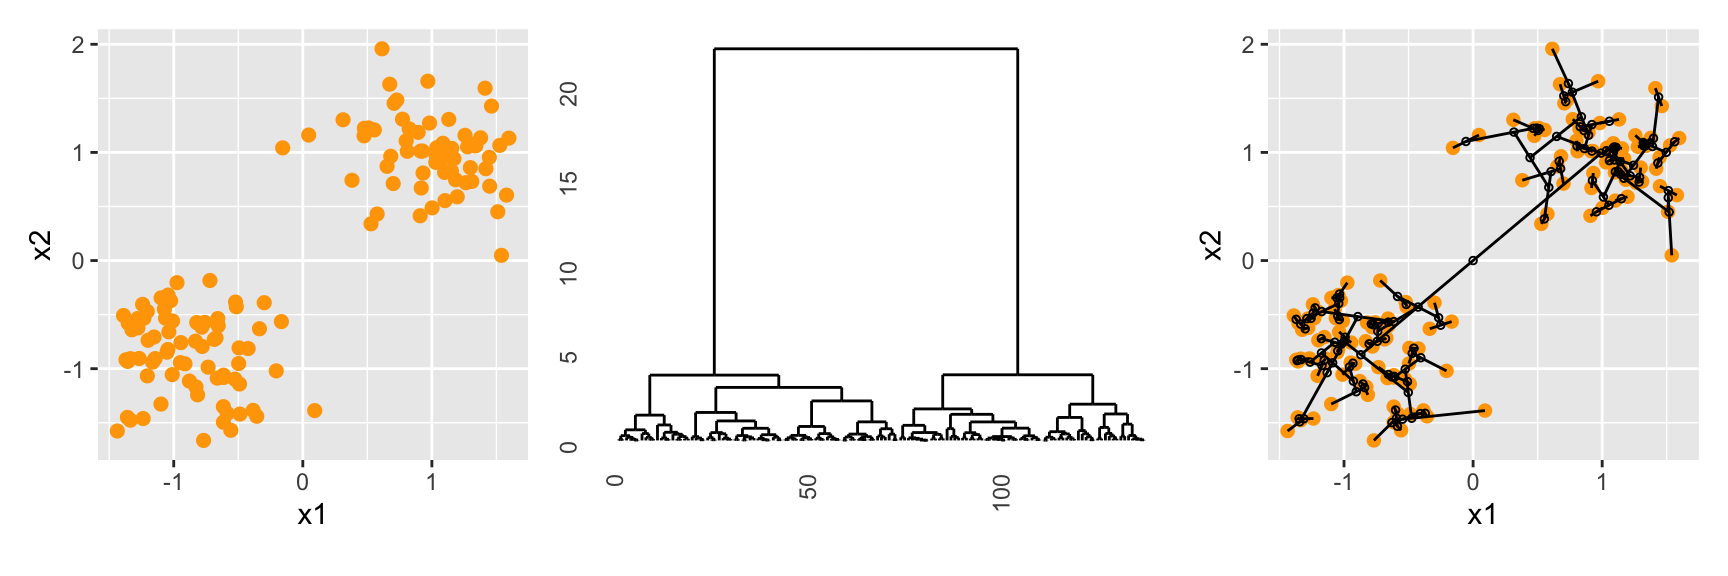
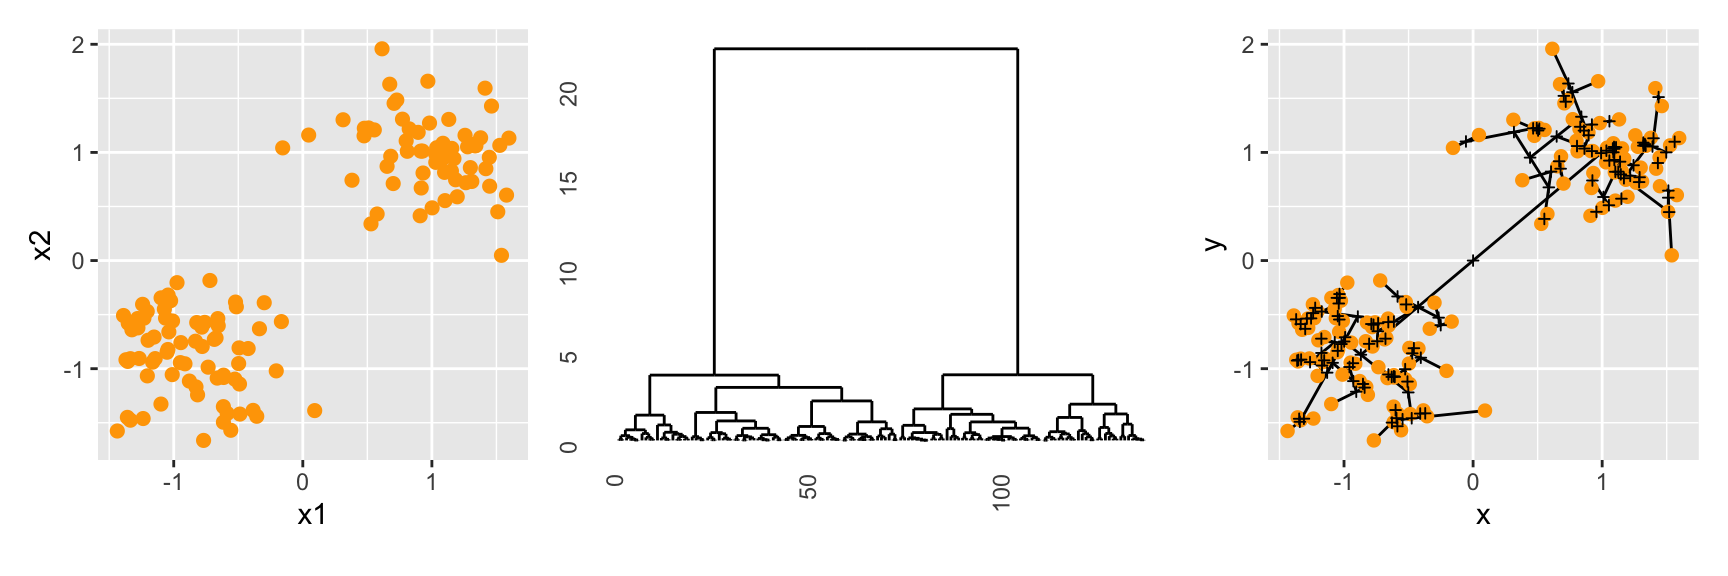
simple example

diff --git a/docs/hierarchical-clustering.html b/docs/hierarchical-clustering.html
@@ -368,15 +368,15 @@ div.csl-indent {
 <span id="cb1-16"><a href="#cb1-16" aria-hidden="true" tabindex="-1"></a>cl_hfly <span class="ot">&lt;-</span> <span class="fu">hierfly</span>(simple_clusters, cl_hw, <span class="at">scale=</span><span class="cn">FALSE</span>)</span>
 <span id="cb1-17"><a href="#cb1-17" aria-hidden="true" tabindex="-1"></a></span>
 <span id="cb1-18"><a href="#cb1-18" aria-hidden="true" tabindex="-1"></a>pdh <span class="ot">&lt;-</span> <span class="fu">ggplot</span>() <span class="sc">+</span></span>
-<span id="cb1-19"><a href="#cb1-19" aria-hidden="true" tabindex="-1"></a>  <span class="fu">geom_point</span>(<span class="at">data=</span>cl_hfly<span class="sc">$</span>data, </span>
-<span id="cb1-20"><a href="#cb1-20" aria-hidden="true" tabindex="-1"></a>             <span class="fu">aes</span>(<span class="at">x=</span>x1, <span class="at">y=</span>x2,</span>
-<span id="cb1-21"><a href="#cb1-21" aria-hidden="true" tabindex="-1"></a>                 <span class="at">shape=</span><span class="fu">factor</span>(node),</span>
-<span id="cb1-22"><a href="#cb1-22" aria-hidden="true" tabindex="-1"></a>                 <span class="at">colour=</span><span class="fu">factor</span>(node),</span>
-<span id="cb1-23"><a href="#cb1-23" aria-hidden="true" tabindex="-1"></a>                 <span class="at">size=</span><span class="dv">1</span><span class="sc">-</span>node)) <span class="sc">+</span></span>
-<span id="cb1-24"><a href="#cb1-24" aria-hidden="true" tabindex="-1"></a>  <span class="fu">geom_segment</span>(<span class="at">data=</span>cl_hfly<span class="sc">$</span>segments, </span>
-<span id="cb1-25"><a href="#cb1-25" aria-hidden="true" tabindex="-1"></a>                <span class="fu">aes</span>(<span class="at">x=</span>x, <span class="at">xend=</span>xend,</span>
-<span id="cb1-26"><a href="#cb1-26" aria-hidden="true" tabindex="-1"></a>                    <span class="at">y=</span>y, <span class="at">yend=</span>yend)) <span class="sc">+</span></span>
-<span id="cb1-27"><a href="#cb1-27" aria-hidden="true" tabindex="-1"></a>  <span class="fu">scale_shape_manual</span>(<span class="at">values =</span> <span class="fu">c</span>(<span class="dv">16</span>, <span class="dv">1</span>)) <span class="sc">+</span></span>
+<span id="cb1-19"><a href="#cb1-19" aria-hidden="true" tabindex="-1"></a>  <span class="fu">geom_segment</span>(<span class="at">data=</span>cl_hfly<span class="sc">$</span>segments, </span>
+<span id="cb1-20"><a href="#cb1-20" aria-hidden="true" tabindex="-1"></a>                <span class="fu">aes</span>(<span class="at">x=</span>x, <span class="at">xend=</span>xend,</span>
+<span id="cb1-21"><a href="#cb1-21" aria-hidden="true" tabindex="-1"></a>                    <span class="at">y=</span>y, <span class="at">yend=</span>yend)) <span class="sc">+</span></span>
+<span id="cb1-22"><a href="#cb1-22" aria-hidden="true" tabindex="-1"></a>  <span class="fu">geom_point</span>(<span class="at">data=</span>cl_hfly<span class="sc">$</span>data, </span>
+<span id="cb1-23"><a href="#cb1-23" aria-hidden="true" tabindex="-1"></a>             <span class="fu">aes</span>(<span class="at">x=</span>x1, <span class="at">y=</span>x2,</span>
+<span id="cb1-24"><a href="#cb1-24" aria-hidden="true" tabindex="-1"></a>                 <span class="at">shape=</span><span class="fu">factor</span>(node),</span>
+<span id="cb1-25"><a href="#cb1-25" aria-hidden="true" tabindex="-1"></a>                 <span class="at">colour=</span><span class="fu">factor</span>(node),</span>
+<span id="cb1-26"><a href="#cb1-26" aria-hidden="true" tabindex="-1"></a>                 <span class="at">size=</span><span class="dv">1</span><span class="sc">-</span>node)) <span class="sc">+</span></span>
+<span id="cb1-27"><a href="#cb1-27" aria-hidden="true" tabindex="-1"></a>  <span class="fu">scale_shape_manual</span>(<span class="at">values =</span> <span class="fu">c</span>(<span class="dv">16</span>, <span class="dv">3</span>)) <span class="sc">+</span></span>
 <span id="cb1-28"><a href="#cb1-28" aria-hidden="true" tabindex="-1"></a>  <span class="fu">scale_colour_manual</span>(<span class="at">values =</span> <span class="fu">c</span>(<span class="st">"orange"</span>, <span class="st">"black"</span>)) <span class="sc">+</span></span>
 <span id="cb1-29"><a href="#cb1-29" aria-hidden="true" tabindex="-1"></a>  <span class="fu">scale_size</span>(<span class="at">limits=</span><span class="fu">c</span>(<span class="dv">0</span>,<span class="dv">17</span>)) <span class="sc">+</span></span>
 <span id="cb1-30"><a href="#cb1-30" aria-hidden="true" tabindex="-1"></a>  <span class="fu">theme</span>(<span class="at">aspect.ratio=</span><span class="dv">1</span>, <span class="at">legend.position=</span><span class="st">"none"</span>)</span>
@@ -388,11 +388,12 @@ div.csl-indent {
 <div id="fig-hc-sim" class="quarto-figure quarto-figure-center anchored">
 <figure class="figure">
 <p><img src="hierarchical-clustering_files/figure-html/fig-hc-sim-1.png" class="img-fluid figure-img" width="864"></p>
-<p></p><figcaption class="figure-caption">Figure&nbsp;8.1: Hierarchical clustering on simulated data: (left) data, (middle) dendrogram, (right) dendrogram on the data.</figcaption><p></p>
+<p></p><figcaption class="figure-caption">Figure&nbsp;8.1: Hierarchical clustering on simulated data: (left) data, (middle) dendrogram, (right) dendrogram on the data. Nodes of the dendrogram indicated by <code>+</code> when it is drawn on the data.</figcaption><p></p>
 </figure>
 </div>
 </div>
 </div>
+<p><a href="#fig-hc-sim">Figure&nbsp;<span>8.1</span></a> illustrates the hierarchical clustering approach, and the dendrogram representation of the results.</p>
 <p>–THIS STUFF IS THE OLD MATERIAL–</p>
 <p><span class="quarto-unresolved-ref">?fig-prim7-hier</span> contains several plots that illustrate the results of the hierarchical clustering of the particle physics data; we used Euclidean interpoint distances and the average linkage method. This is computed by:</p>
 <pre><code>&gt; library(rggobi)
